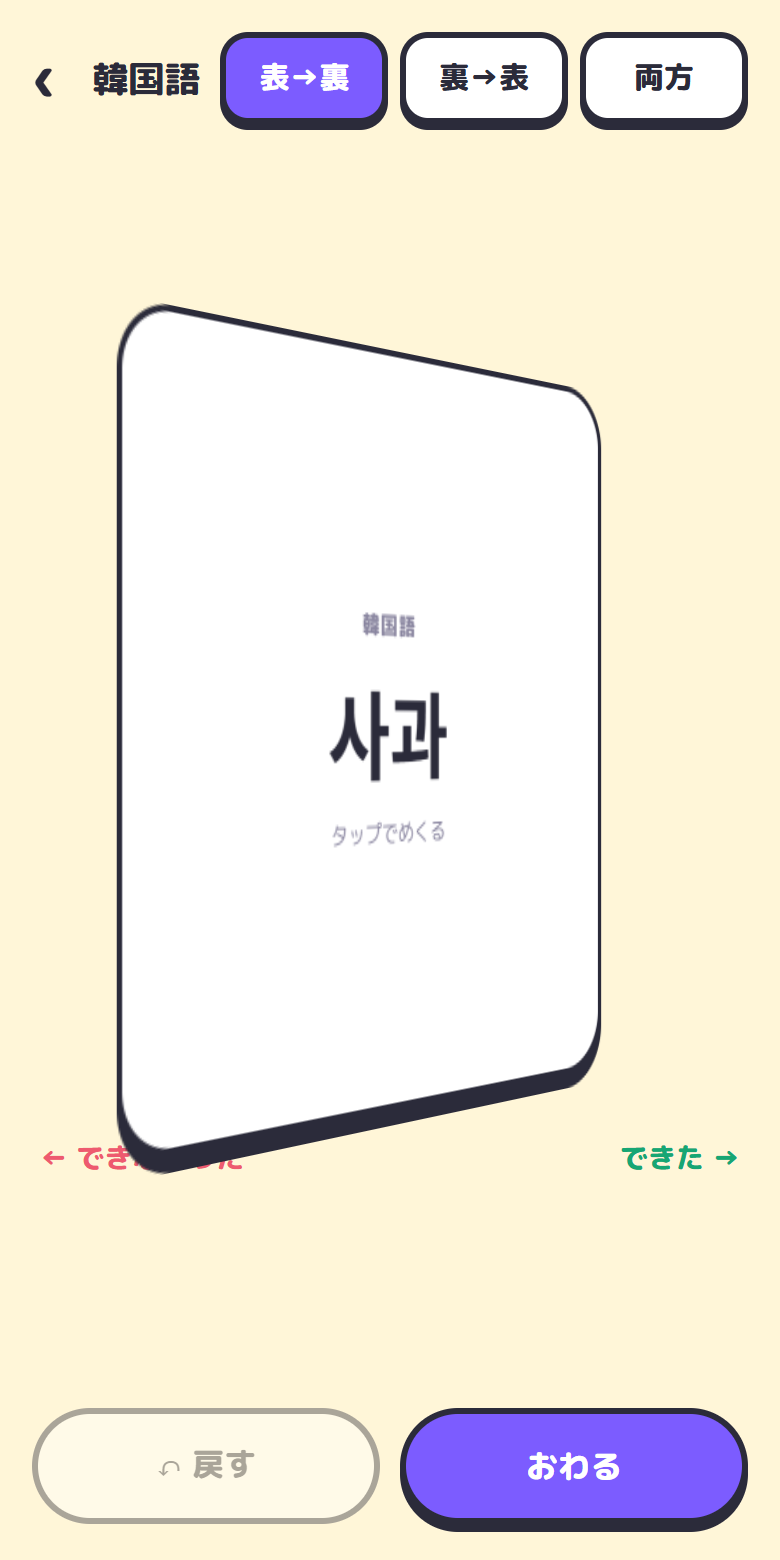
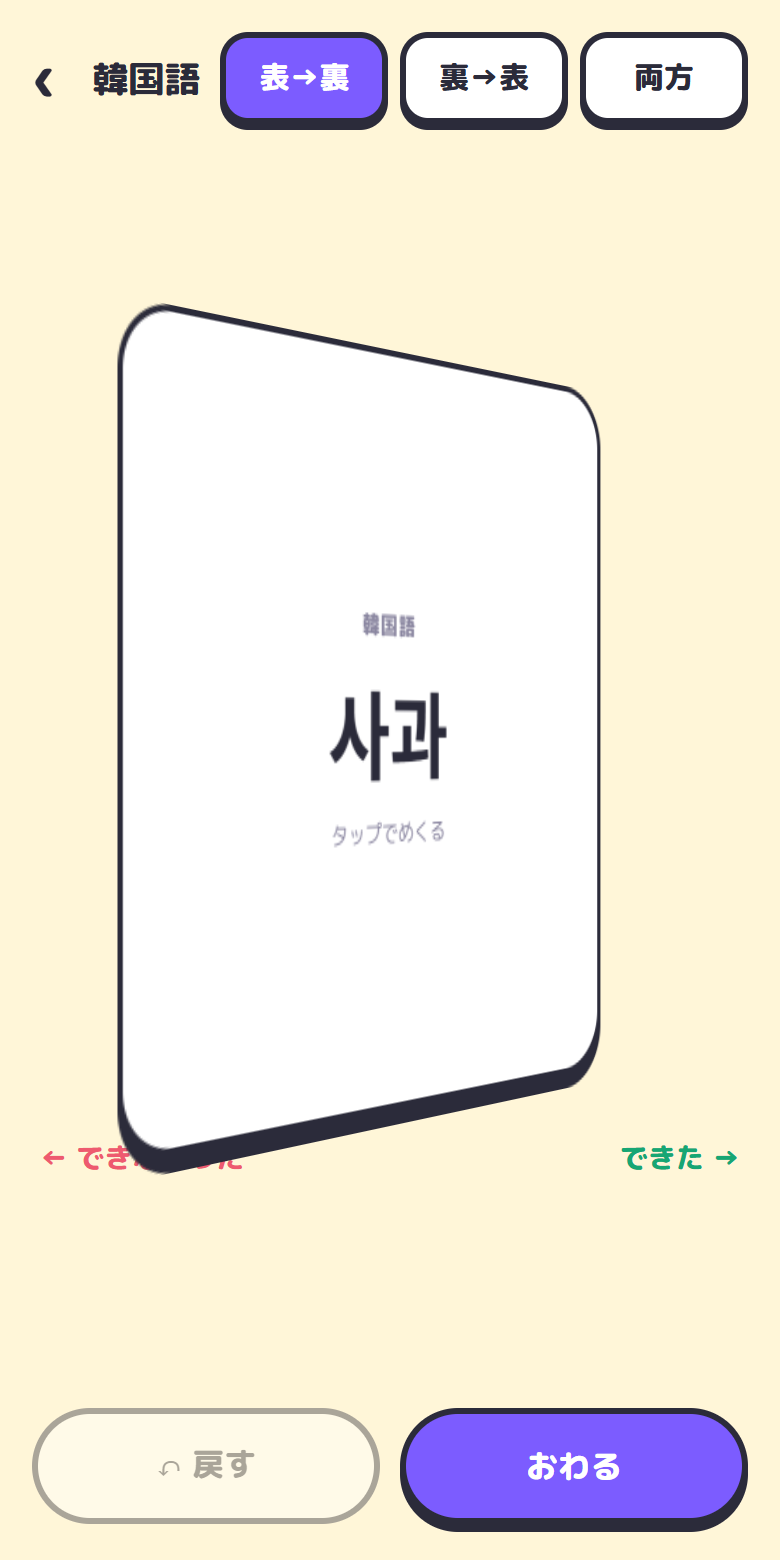
fix: request persistent storage

Changed region(s): [[0.1538, 0.2154, 0.1846, 0.7385], [0.7385, 0.6462, 0.7692, 0.6769], [0.7385, 0.2462, 0.7692, 0.2769]]

diff --git a/app.js b/app.js
@@ -281,6 +281,9 @@ app.addEventListener('submit', async e => {
   }
 });
 
+// ブラウザに「このデータは勝手に消さないで」とお願いする(容量不足時の自動削除対策)
+navigator.storage?.persist?.().catch(() => {});
+
 await refresh();
 render();
 
